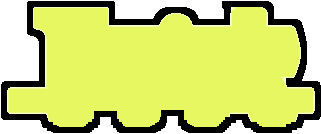
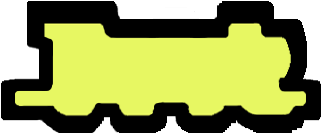
Tinkered with train images, image scale, and added route data

Changed region(s): [[0.0, 0.0299, 1.0, 1.0], [0.2804, 0.9552, 0.3115, 1.0], [0.9969, 0.8657, 1.0, 0.8955]]

diff --git a/app/src/main/java/deltamonstarz/tickettoride/views/gamePlay/MapView.java b/app/src/main/java/deltamonstarz/tickettoride/views/gamePlay/MapView.java
@@ -20,7 +20,7 @@ import delta.monstarz.shared.model.Route;
 import delta.monstarz.shared.model.Segment;
 
 public class MapView extends View {
-	private static Bitmap mapImage;
+	private Bitmap mapImage;
 	private GameActivity activity;
 	private static Rect sourceRect;
 	private static RectF destRect;
@@ -28,7 +28,7 @@ public class MapView extends View {
 	private static float mapScaleY;
 	private static List<Route> claimedRoutes = new ArrayList<>();
 
-	private final float TRAIN_SCALE = (float) 0.21;
+	private final float TRAIN_SCALE = (float) 0.18;
 	private final int TRAIN_OFFSET_X = -2;
 	private final int TRAIN_OFFSET_Y = -3;
 

diff --git a/shared/src/main/java/delta/monstarz/shared/model/Player.java b/shared/src/main/java/delta/monstarz/shared/model/Player.java
@@ -5,8 +5,6 @@ import java.util.Collection;
 import java.util.HashMap;
 import java.util.List;
 
-import sun.security.krb5.internal.crypto.Des;
-
 public class Player {
 	private String username;
 	private PlayerColor playerColor;
@@ -22,6 +20,7 @@ public class Player {
 	public Player(String username){
 		this.username = username;
 		trainCards = new HashMap<>();
+		state = new InactiveState();
 	}
 	public String getUsername() {
 		return username;

diff --git a/server/src/main/java/delta/monstarz/commands/ServerDrawTrainCardCommand.java b/server/src/main/java/delta/monstarz/commands/ServerDrawTrainCardCommand.java
@@ -29,7 +29,7 @@ public class ServerDrawTrainCardCommand extends DrawTrainCardCommand
 		Game game = GameManager.getInstance().getGameByID(gameID);
 		TrainCard card = game.getTrainDeck().drawCard();
 		Player player = game.getPlayerByUsername(username);
-		player.drawTrainCard(card);
+		player.drawTrainCard(card, true);
 		this.setCardDrawn(card);
 		game.addCommand(new UpdatePlayerInfoCommand(username, gameID, player.playerInfo()) );
 	}

diff --git a/app/src/main/java/deltamonstarz/tickettoride/model/ClientModel.java b/app/src/main/java/deltamonstarz/tickettoride/model/ClientModel.java
@@ -221,7 +221,7 @@ public class ClientModel extends Observable{
 		for (Route route : routes) {
 			if (route.getSegments() != null) {
 				goodRoutes.add(route);
-				route.setTrainColor(PlayerColor.YELLOW);
+				route.setTrainColor(PlayerColor.BLACK);
 			}
 		}
 		return goodRoutes;
